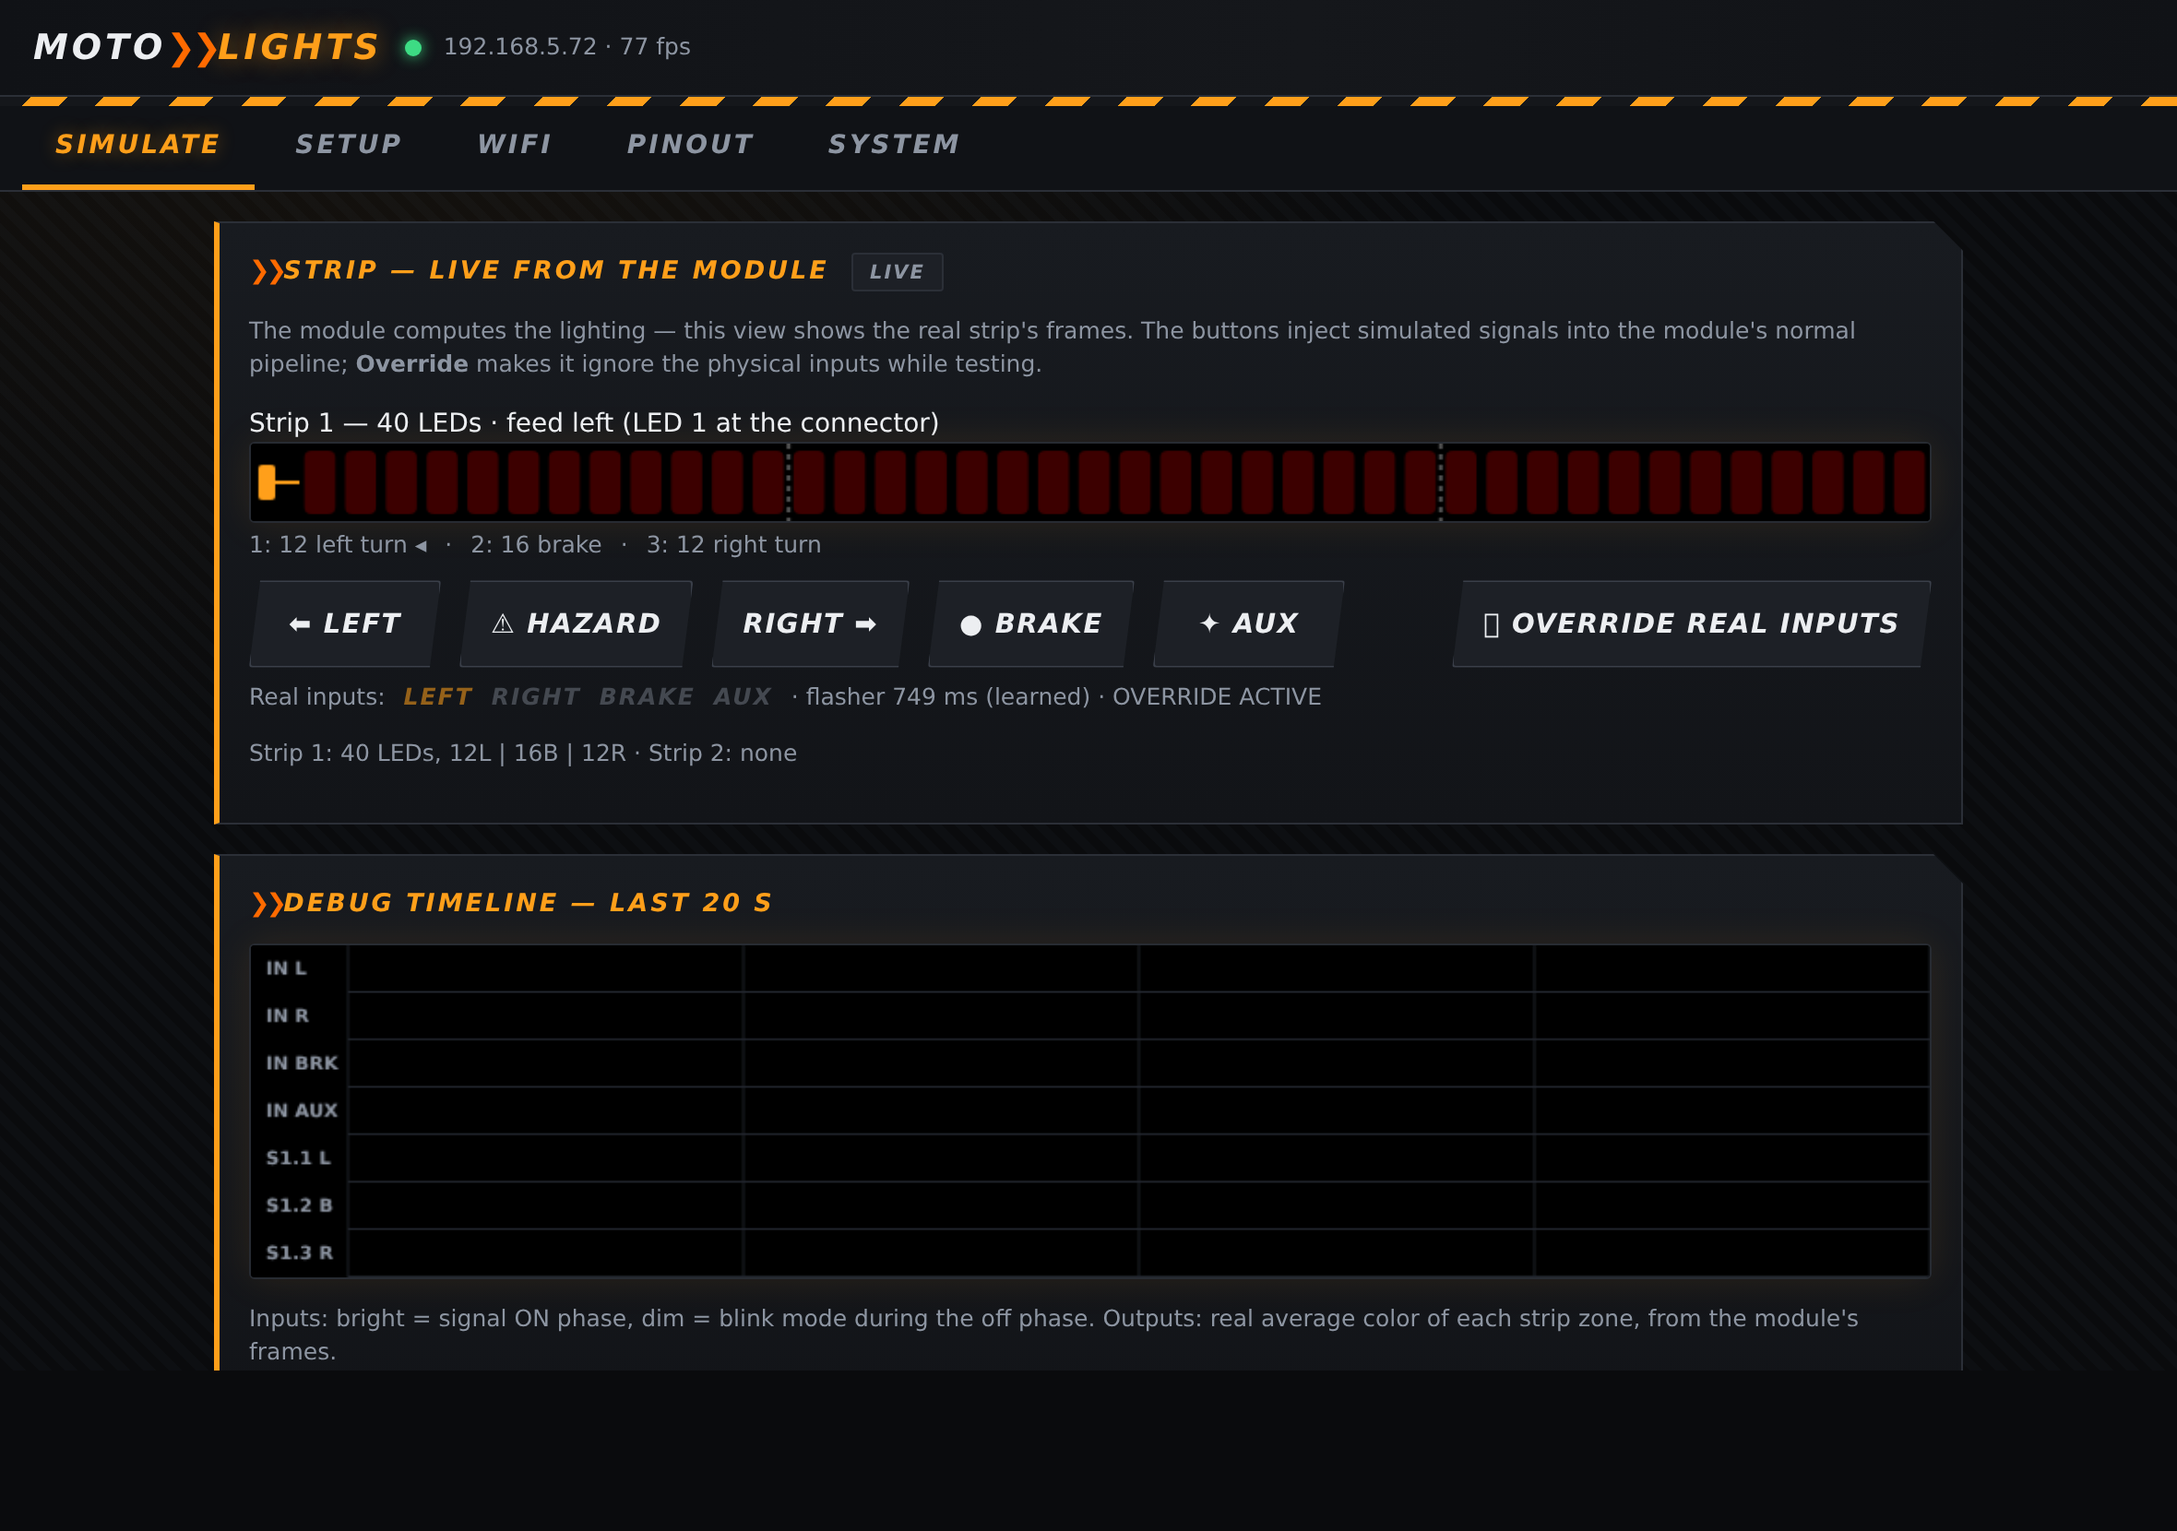
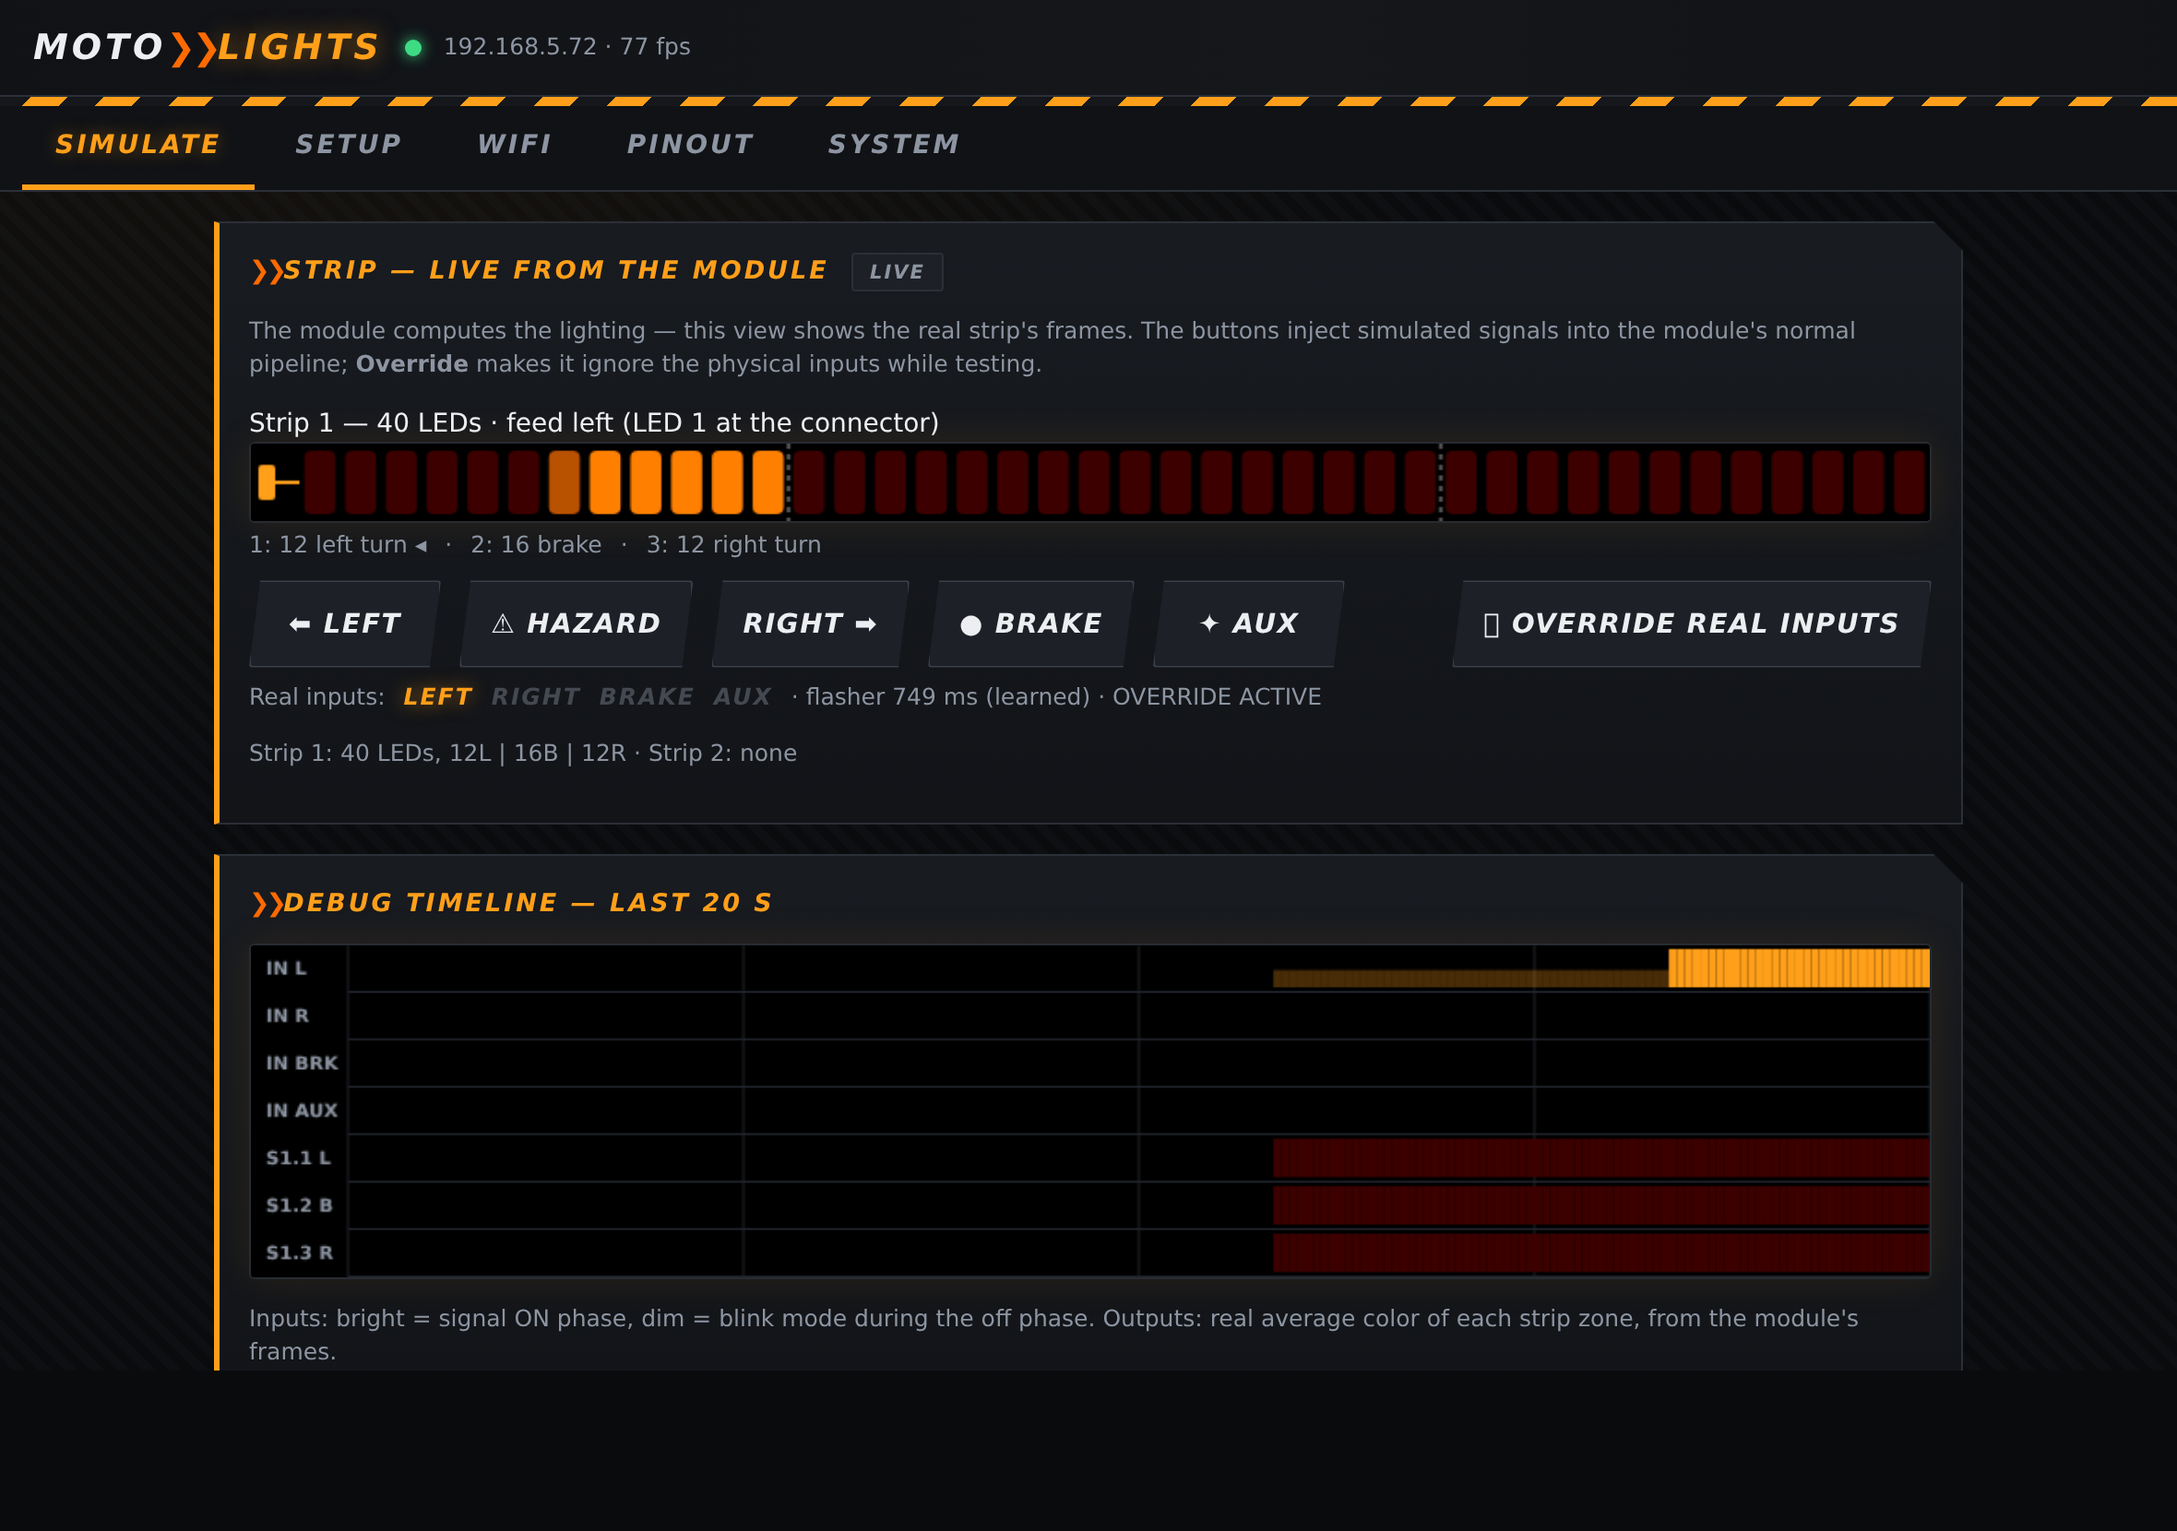
Bring the documentation back in line with the code
The core principle was stated backwards in two places: README and rule 4
said a failure "degrades to working lighting — never to darkness", the exact
opposite of the fail-dark rule in CLAUDE.md and the manual. Both now say what
the code does: a config that cannot be read runs the compiled defaults, a
hardware or task failure goes dark, a hung render task is rebooted.

Also fixed: the 1.5x blink-mode grace (code: 1.2x), the .proto path in four
places after its move to components/protocol, source files named .c that are
.cpp, "compositor" listed as host-tested when it is not, JSON that the
firmware never carried, a coding-style guide that still named another project
and its types, the manual's "75 frames a second to the page" (the WebSocket
pushes 30; the LEDs run at 75), "five selectors" that lists six, the learned
period placed on the System tab when it lives on Simulate, a source path in
the rider manual, a proto comment citing files that never existed, and an
sdkconfig comment about a route that does not exist. README gains the protoc
and nanopb prerequisites the build hard-fails without, the released IDF tag CI
uses, and the components its layout list had never mentioned.

Screenshots regenerated from the module for the page changes (finger-sized
section buttons, scrolling tables).

diff --git a/firmware/webui/app.js b/firmware/webui/app.js
@@ -2,7 +2,7 @@
 if(!CanvasRenderingContext2D.prototype.roundRect)
   CanvasRenderingContext2D.prototype.roundRect=function(x,y,w,h){this.rect(x,y,w,h);return this;};
 
-/* ============ protobuf wire format (docs/ws_protocol.proto) ============ */
+/* ====== protobuf wire format (components/protocol/proto/ws_protocol.proto) ====== */
 const TENC=new TextEncoder(),TDEC=new TextDecoder();
 function pbW(){
   const b=[];

diff --git a/README.md b/README.md
@@ -9,7 +9,7 @@ ESP32 (M5Stamp Pico) on a custom opto-isolated interface PCB (see `pcb/`).
 
 - Reads the bike's 12V lighting signals (left/right turn, brake, aux) through
   optocouplers — turn inputs pulse at the flasher rate; the firmware learns
-  the flasher period, persists it, and leaves "blink mode" 1.5× past the
+  the flasher period, persists it, and leaves "blink mode" 1.2× past the
   expected next flash.
 - Each strip is built as an ordered list of **sections** (up to 8, any
   length): a section has its own animation direction, its own turn source
@@ -24,21 +24,31 @@ ESP32 (M5Stamp Pico) on a custom opto-isolated interface PCB (see `pcb/`).
   named color palette (turn color amber/red/custom), build the sections, and
   test everything — the page shows the module's real frames streamed over a
   WebSocket at ~30 FPS. **The whole protocol (WebSocket and REST) is
-  protobuf** (`firmware/components/net_services/proto/ws_protocol.proto`); there is no JSON anywhere.
+  protobuf** (`firmware/components/protocol/proto/ws_protocol.proto`); the
+  firmware carries no JSON.
   Simulated signals are injected at the head of the one input pipeline, so
   the simulation behaves exactly like the real inputs (including the brake
   holdoff), and an override mode ignores the physical inputs while testing.
 
 All lighting decisions live in the firmware only; the page displays frames.
-Safety floor: factory effects are compiled into the firmware, any config or
-storage failure degrades to working position/brake/turn lighting.
+This is supplementary lighting — the bike keeps its own legal lamps — so the
+firmware fails **dark, never wrong**: a config that cannot be read runs the
+compiled-in defaults, but a strip whose hardware or task fails goes dark
+rather than improvise, and a hung render task is rebooted by the watchdog.
 
 ## Build (ESP-IDF 6.1)
+
+Prerequisites besides ESP-IDF v6.1 itself: `protoc` and the nanopb generator
+plugin, which regenerate the protocol bindings on every build
+(`apt install protobuf-compiler` and `pip install nanopb==0.4.9.1` — the
+generator must match the runtime vendored in `firmware/components/nanopb`).
+CI builds in `espressif/idf:v6.1`; stay on that tag locally too.
 
 ```sh
 cd firmware
 cp main/wifi_creds.h.example main/wifi_creds.h   # optional: seeds the home WiFi
-                                                 # on first boot (gitignored)
+                                                 # into a module that has no
+                                                 # config yet (gitignored)
 source ~/esp/esp-idf-6.1/export.sh
 idf.py set-target esp32
 idf.py build
@@ -81,10 +91,15 @@ sources stay split for editing, the module still serves one request.
   brake-strobe holdoff, simulated-signal injection
 - `firmware/components/event_arbiter/` — inputs + config → layer stack (sections, priorities)
 - `firmware/components/render_core/` — ~75 FPS render task (core 1) + control queue
+- `firmware/components/led_driver/` — WS2812 output over RMT, one device per strip
+- `firmware/components/config_store/` — defaults, validation, protobuf codec, NVS persistence
+- `firmware/components/protocol/` — the `.proto` and its generated nanopb bindings
 - `firmware/components/net_services/` — SoftAP+STA, REST API, WebSocket protobuf push,
-  embedded web app
+  OTA, embedded web app
+- `firmware/components/crash_log/`, `status_led/`, `ui_button/`, `dev_console/`,
+  `tasks/` — crash journal, module LED, button, serial console, task table
 - `firmware/webui/` — the config page: `index.html`, `style.css`, `app.js`
   (display only, no lighting logic), inlined into one asset at build time
 - `firmware/docs/EFFECT_SPEC.md` — normative effect semantics
-- `firmware/components/net_services/proto/ws_protocol.proto` — WebSocket message contract
+- `firmware/components/protocol/proto/ws_protocol.proto` — the wire and storage contract
 - `pcb/` — schematic, layout, EasyEDA project

diff --git a/firmware/docs/programming-rules.md b/firmware/docs/programming-rules.md
@@ -13,19 +13,24 @@ House rules for this codebase. They exist because each one was earned.
    flasher wave for turns), so every downstream rule (debounce, blink
    tracking, brake holdoff) applies identically to real and simulated input.
    Never merge simulated state further down.
-3. **Pure, host-testable cores.** Decision logic (`blinker.c`,
-   `effect_eval.c`, `compositor.c`, `event_arbiter.c`) has zero ESP-IDF
-   dependencies and compiles on the host. Every behavior rule gets a host
-   test (`test/host/run_tests.sh`). ESP-specific code is a thin wrapper.
-4. **Safety first, always.** Boot order lights the strip from compiled-in
-   fallback effects before storage or network are touched. Any config,
-   filesystem, or network failure degrades to working position/brake/turn
-   lighting — never to darkness. The render task never parses JSON, never
-   takes a mutex, and never blocks on flash; changes cross over via an
+3. **Pure, host-testable cores.** Decision logic (`blinker.cpp`,
+   `effect_eval.cpp`, `event_arbiter.cpp`, `config_rules.cpp`,
+   `config_proto.cpp`) has zero ESP-IDF dependencies and compiles on the
+   host; `test/host/run_tests.sh` covers the blinker, the effect evaluator,
+   the arbiter and the config codec. A behaviour rule that lives in one of
+   those files gets a host test. ESP-specific code is a thin wrapper.
+4. **Safety first, always — and fail dark, never wrong.** The strips are
+   latched black before anything else runs, and the boot order lights them
+   from compiled-in fallback effects before storage or network are touched.
+   A config that cannot be read runs the compiled defaults; a strip whose
+   hardware fails, or a render task that hangs, goes dark (the watchdog
+   reboots it) rather than improvise a signal. Never add a retry or fallback
+   whose purpose is "keep something lit". The render task never takes a
+   mutex and never blocks on flash; changes cross over via an
    ownership-transfer queue.
 5. **Contracts are files, and they move with the code.**
    `docs/EFFECT_SPEC.md` (effect semantics) is normative, and
-   `components/net_services/proto/ws_protocol.proto` *is* the protocol:
+   `components/protocol/proto/ws_protocol.proto` *is* the protocol:
    nanopb regenerates the C bindings from it on every build, so the firmware
    cannot drift from it. The webpage decodes the same wire format by hand
    (no bundler there — `tools/build_webui.sh` only inlines and gzips), so a
@@ -63,9 +68,10 @@ House rules for this codebase. They exist because each one was earned.
 
 ## Style
 
-10. **No magic numbers or magic strings.** Use `#define`/named constants for
-   timeouts, thresholds, ids, field numbers. (Factory-effect JSON literals
-   are the data itself and are exempt.)
+10. **No magic numbers or magic strings.** Use named `constexpr` constants
+   (or `#define` where a macro is unavoidable) for timeouts, thresholds,
+   ids, field numbers. The factory-effect step tables are the data itself
+   and are exempt.
 11. **`const` locals.** Any local variable that is never reassigned after
     initialization is declared `const` (and `T *const` where it applies).
 12. **Comments state constraints, not narration.** A comment earns its place

diff --git a/user_manual/README.md b/user_manual/README.md
@@ -74,7 +74,8 @@ dot when you have unsaved changes, and leaving asks first.
 ![Simulate tab](img/01-simulate.png)
 
 The strip drawing is not a mock-up: it is the module's real frames, pushed
-about 75 times a second. What you see here is exactly what the LEDs show.
+to the page about 30 times a second (the LEDs themselves refresh at ~75).
+What you see here is exactly what the LEDs show.
 
 - **LEFT / HAZARD / RIGHT / BRAKE / AUX** inject a simulated signal into the
   module's normal pipeline — the lighting logic is the same one used on the
@@ -113,8 +114,8 @@ For each section:
   animation driven by that side's signal
 - **Brake + position** — no blinker, lights up on the brake
 - **Position only** — always on, ignores brake and turn
-- **Custom…** — opens the five selectors: *Turn source*, *Idle / position*,
-  *Brake*, *Turn ON*, *Turn off phase*, *Aux*
+- **Custom…** — opens the selectors: *Turn source*, then one effect each
+  for *Idle / position*, *Brake*, *Turn ON*, *Turn off phase* and *Aux*
 
 Any event can be set to **— none —**, which means "paint nothing here" — the
 layers below stay visible. That is not the same as the *Off (dark)* effect,
@@ -287,7 +288,7 @@ the module — and it comes back dark rather than frozen on half a frame.
 | Access point name or password forgotten | hold the button 15 s: fuchsia LED, then factory settings and the **MotoLights** network is back |
 | Colours wrong (red shows green) | wrong **colour order** for your strip |
 | Animation runs the wrong way | flip the section's **Direction**, or the strip's **reversed data direction** if the whole bar is mirrored |
-| Blinking out of step with the bike | let it blink a few times so the period gets learned; the System tab shows the learned value |
+| Blinking out of step with the bike | let it blink a few times so the period gets learned; the Simulate tab shows the learned value next to the real inputs |
 | `Unexpected resets` is not zero | the module crashed or was rebooted by its watchdog — note the reason and report it |
 | Firmware update refused | the file is not a MotoLights image, or it is not an ESP32 application at all — the message says which |
 | The module came back on the old firmware after an update | the new image failed its first boot and the module rolled itself back |
@@ -308,7 +309,3 @@ A serial console is available at 115200 baud with a few commands: `wifi`,
 | LED families | WS2812/WS2812B, SK6812, WS2811, WS2816 |
 | Inputs | LEFT, RIGHT, BRAKE, AUX — 12 V, opto-isolated, active low |
 
----
-
-*Screenshots are taken from a running module with
-`firmware/tools/capture_screenshots.sh <module-ip>`.*

diff --git a/firmware/docs/coding-style.md b/firmware/docs/coding-style.md
@@ -1,6 +1,6 @@
 # Coding Style Guide
 
-This document outlines the coding style for the `oe-heatgrip-gdo` projects.
+This document outlines the coding style for this firmware.
 
 ## Variable Naming
 
@@ -15,7 +15,7 @@ This document outlines the coding style for the `oe-heatgrip-gdo` projects.
 - **Constants and Macros**: Use `UPPER_CASE`.
 - **Classes/Structs**: Use `PascalCase` (e.g., `struct MessagePacket;`).
 - **Enums**: Use `enum class` (scoped enums) with `PascalCase` members (e.g., `enum class DeviceState { ... };`).
-- **Acronyms**: Keep acronyms in uppercase (e.g., `OTA`, `GDO`, `PMK`, `SSID`, `WAP`, `PWM`).
+- **Acronyms**: Keep acronyms in uppercase (e.g., `OTA`, `RMT`, `NVS`, `SSID`, `PWM`).
 - **Pointers and references**: The `*` or `&` binds to the **type**, not the
   name: `const char* name`, `SysConfig* cfg`, `const StripConfig& sc`.
 - **Brackets**: The starting brace `{` **MUST** be on a new line (Allman style).
@@ -31,7 +31,7 @@ This document outlines the coding style for the `oe-heatgrip-gdo` projects.
 ## Const Correctness
 
 - **Always mark a variable `const` if it never changes after initialization.** This applies to local variables, parameters passed by reference/pointer, and member functions that don't mutate state.
-  - **Correct**: `const int count = readCount();`, `const KartConfig cfg = configSnapshot();`, `void print() const;`.
+  - **Correct**: `const int count = readCount();`, `const SysConfig cfg = configSnapshot();`, `void print() const;`.
   - **Incorrect**: `int count = readCount();` when `count` is never reassigned.
 - Prefer `constexpr` over `const` for values known at compile time.
 

diff --git a/firmware/docs/EFFECT_SPEC.md b/firmware/docs/EFFECT_SPEC.md
@@ -4,7 +4,7 @@ This document is the single source of truth for effect semantics, implemented
 once in `components/fx/effect_eval.cpp`. Effects are defined as native
 constexpr step tables in `components/fx/factory_effects.cpp` — there is no
 JSON anywhere; the web UI receives only the module's rendered frames (see
-`components/net_services/proto/ws_protocol.proto`). If a client-side preview is ever reintroduced, it
+`components/protocol/proto/ws_protocol.proto`). If a client-side preview is ever reintroduced, it
 must implement this spec exactly.
 
 ## Model

diff --git a/CLAUDE.md b/CLAUDE.md
@@ -33,7 +33,7 @@ exists only behind the config WiFi, which is off at boot.
 firmware/test/host/run_tests.sh          # pure-logic tests, no ESP-IDF needed
 firmware/tools/check_webui.py webui      # dangling ids / undefined symbols
 firmware/tools/test_webui.sh             # the page's codecs, in a headless browser
-firmware/tools/build_webui.sh            # inline + gzip the page asset
+firmware/tools/build_webui.sh            # inline + gzip the page asset (--check: is it stale?)
 idf.py build && idf.py -p /dev/ttyACM0 flash
 ```
 
